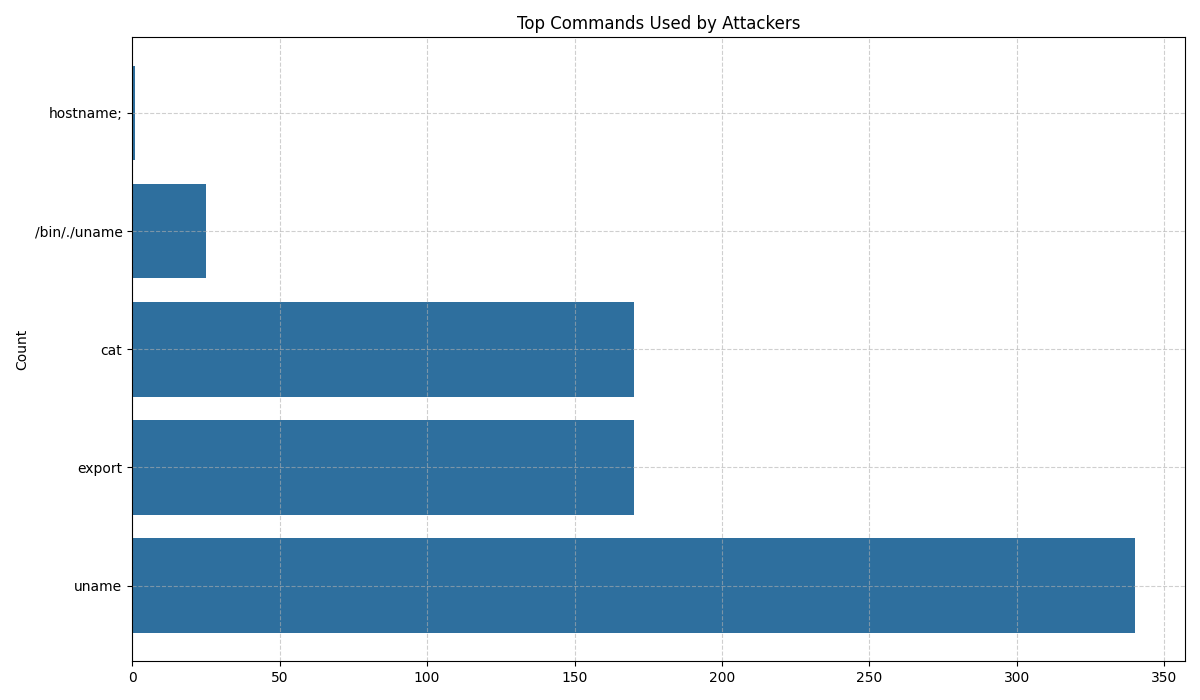
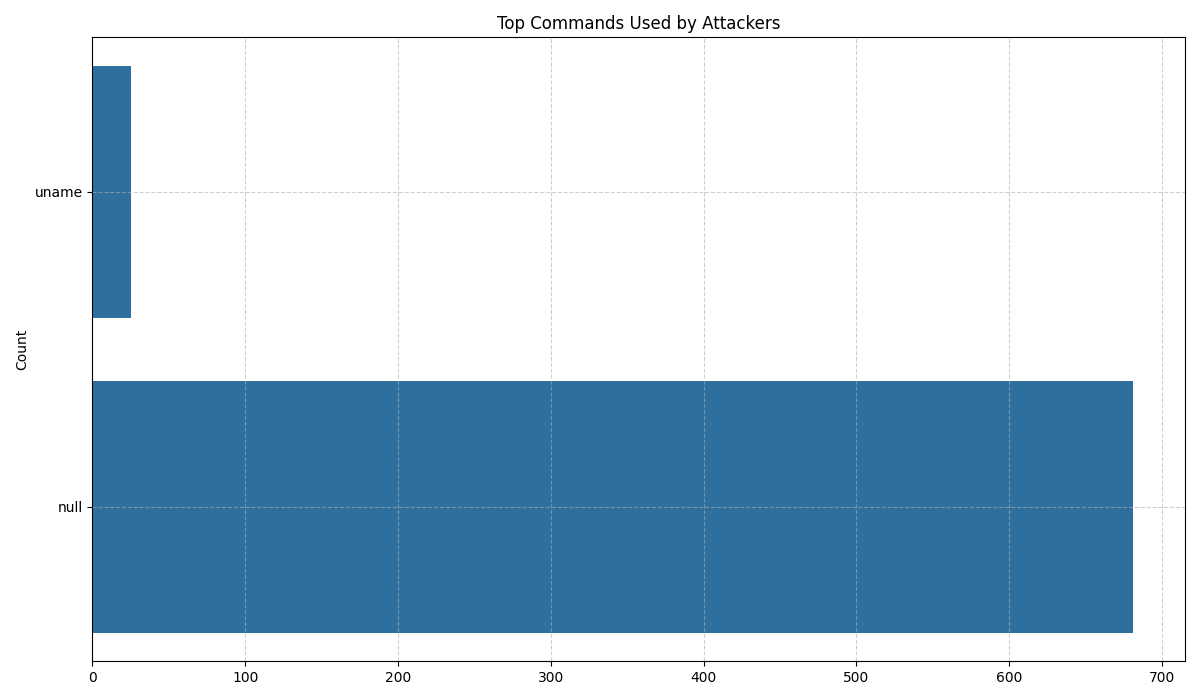
normalize commands

diff --git a/analyze.py b/analyze.py
@@ -33,7 +33,19 @@ plt.close()
 def clean_command(cmd):
     if pd.isna(cmd):
         return None
-    return cmd.split(" ")[0]   # best clean
+
+    cmd = cmd.strip()
+
+    # remove path (e.g. /bin/uname → uname)
+    cmd = cmd.split("/")[-1]
+
+    # remove symbols
+    cmd = cmd.replace(";", "")
+
+    # take only main command
+    cmd = cmd.split(" ")[0]
+
+    return cmd
 
 # APPLY FUNCTION 🔥
 df['clean_command'] = df['command'].apply(clean_command)
